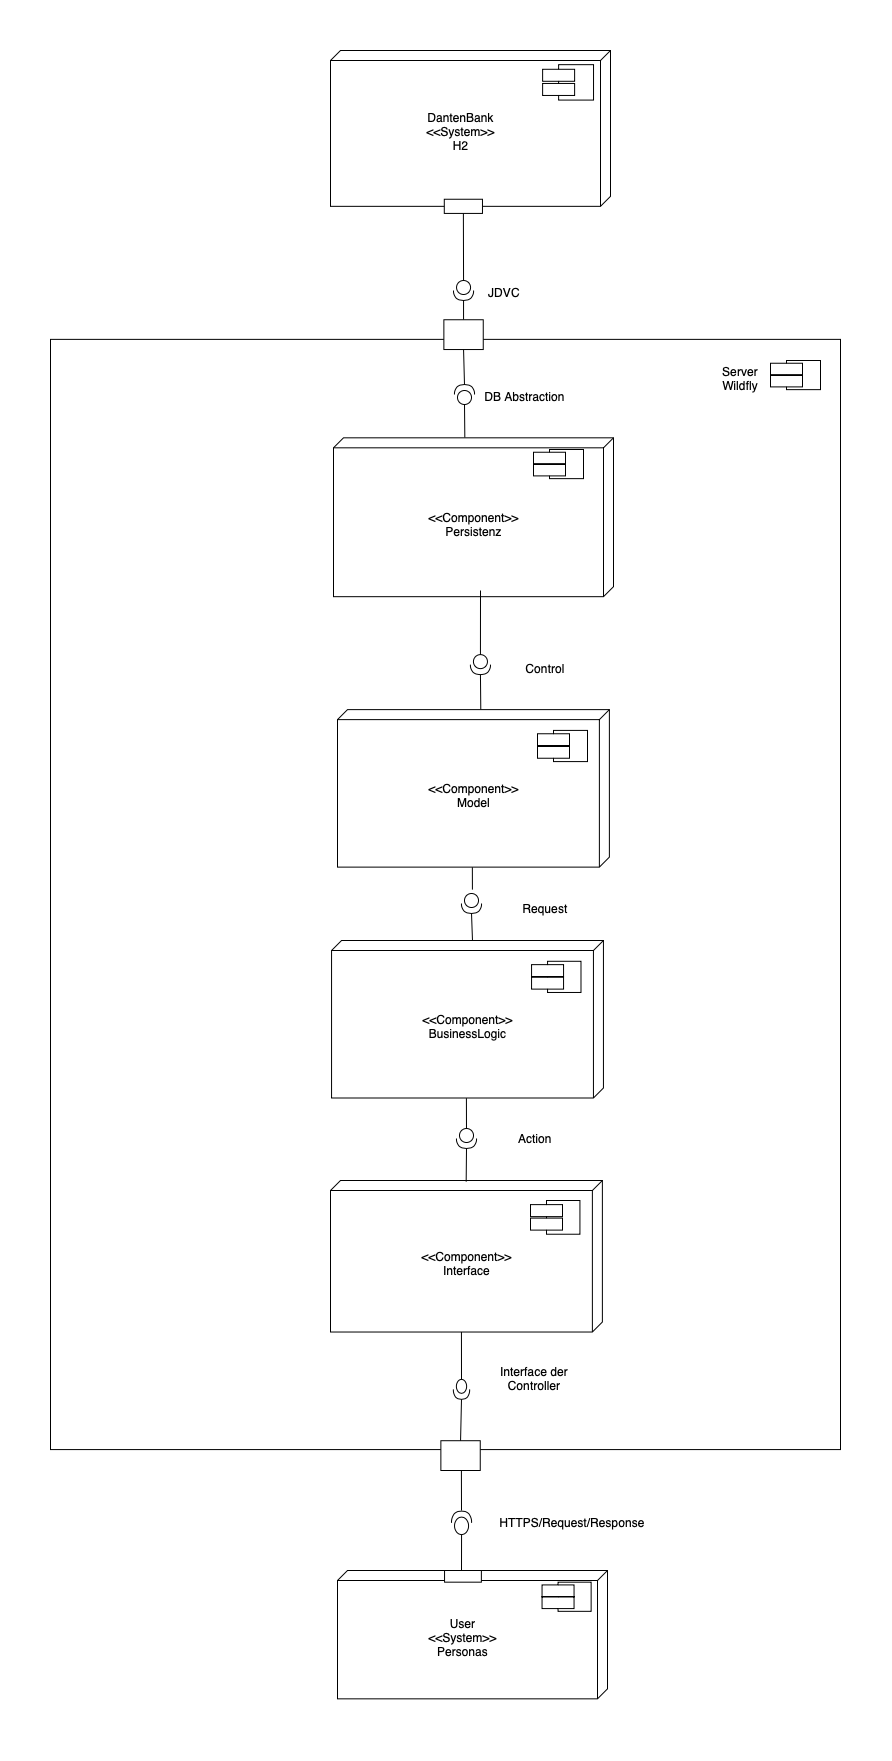
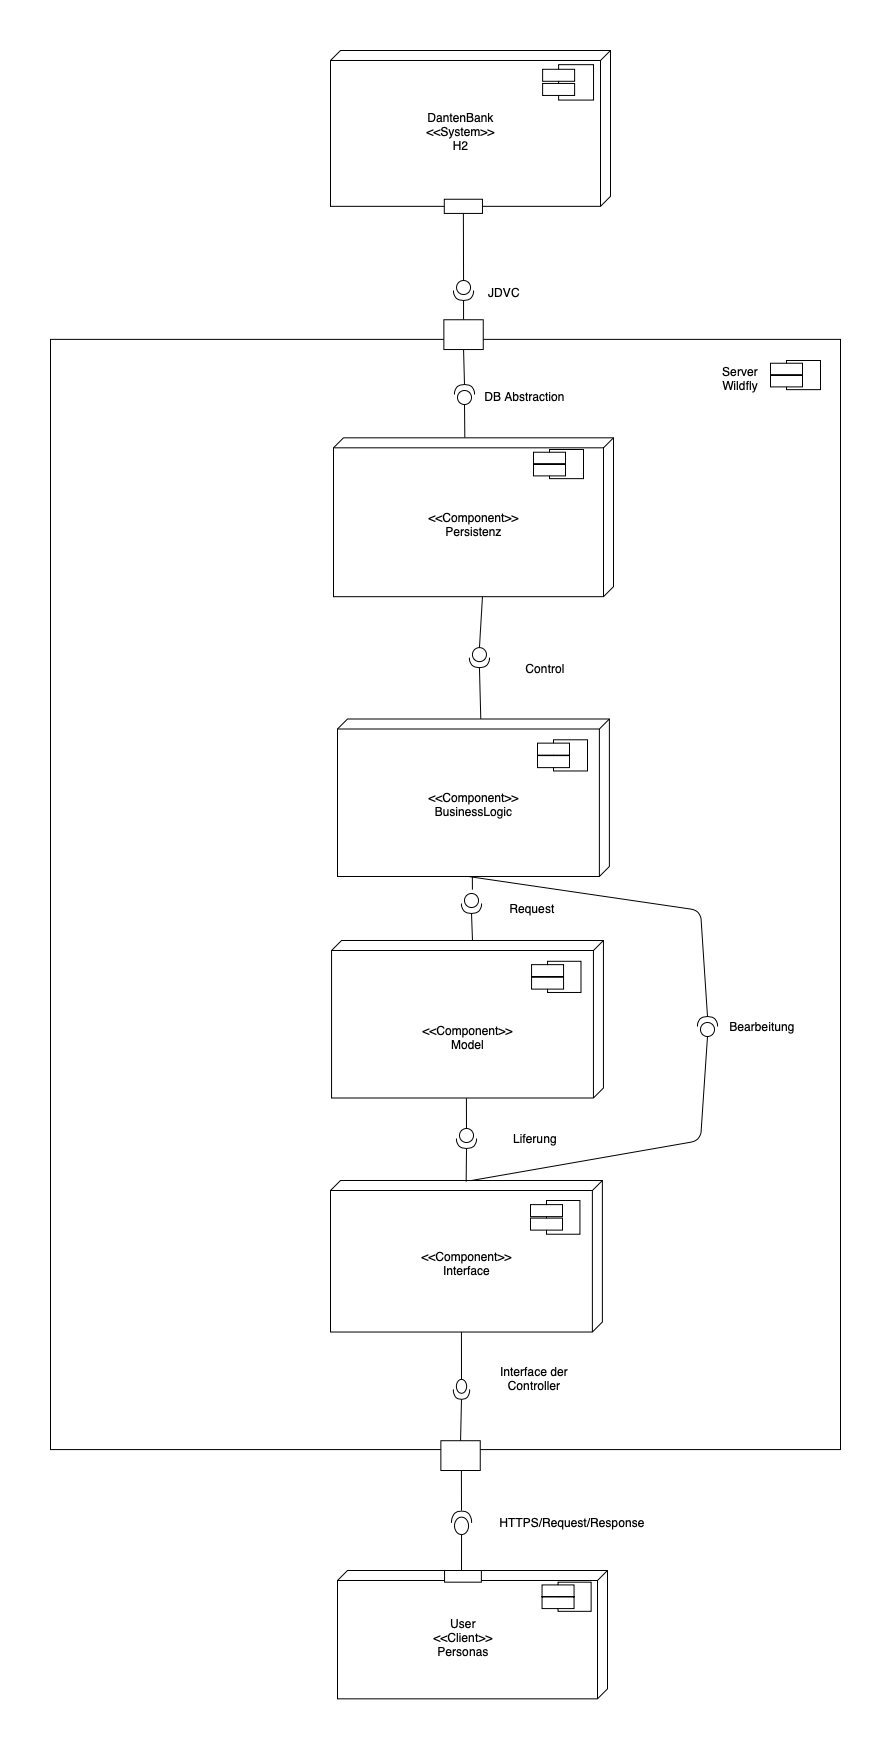
BusinessLogik

diff --git a/doc/Architekturbeschreibung.tex b/doc/Architekturbeschreibung.tex
@@ -889,7 +889,7 @@ Hier haben wir uns für Strategie 2 entschieden, weil durch die Modularisierung 
         \hline
         \textbf{Strategien} \\
          \textbf{Strategie 12.1: Lazy Loading: (ausgewählt)} Es wird immer nur ein kleiner Ausschnitt aus der Datenbank geladen (lazy loading). \\
-         \textbf{Strategie 12.2: Repräsentanten:} Es werden Repräsentanten von Probenkügelchenmenge ausgewählt und angezeigt, dazu noch eine Gesamtanzahl der gleichartigen Kügelchen. \\
+         \textbf{Strategie 12.2: Repräsentanten:} Es werden Repräsentanten von Probenkügelchenmenge ausgewählt und angezeigt, dazu noch eine Gesamtanzahl der gleichartigen Kügelchen. \\ \hline
     \end{tabular}
     \caption{Laden von Informationen Problemkarte}
     \label{tab:ProblemKarte12}
@@ -927,7 +927,7 @@ Hier haben wir uns für die erste Strategie entschieden, weil diese einfacher um
         \hline
         \textbf{Strategien} \\
          \textbf{Strategie 14.1: Von Hand:} Der Prozesskettenadministrator wählt die Stationen selber aus, wenn er die Prozesskette instanziiert. \\
-	\textbf{Strategie 14.2: Automatisch: (ausgewählt)} Das System analysiert, wie die für jeden Prozessschritt möglichen Stationen ausgelastet sind, und entscheidet, wo welche Schritte am effizientesten abgearbeitet werden. \\
+	\textbf{Strategie 14.2: Automatisch: (ausgewählt)} Das System analysiert, wie die für jeden Prozessschritt möglichen Stationen ausgelastet sind, und entscheidet, wo welche Schritte am effizientesten abgearbeitet werden. \\ \hline
     \end{tabular}
     \caption{Automatische Lastverteilung Problemkarte}
     \label{tab:ProblemKarte141}
@@ -939,46 +939,24 @@ Hier haben wir uns für die zweite Strategie entschieden, da sie den Ablauf im F
     \centering
     \begin{tabular}{|p{15cm}|}
     \hline
-          \textbf{Problem 15:} Prozessbearbeitung und Überwachung %Strategien?
+          \textbf{Problem 15:} Datenbearbeitung und Datenüberwachung %Strategien?
           \\ \hline
-          Der Prozesskettenadministrator kann einen Prozess mit unterschiedlichen Prozessschritten bauen. Dieser Prozess soll veränderbar sein und umtauschbar, um den Bedürfnissen der Benutzer gerecht zu werden.
+          Die Nutzer können mit Daten an der System , dieses Daten können mit unterschiedlichen vorausgesetzte  Verhalten bearbeiten werden und diese Daten müssen sichtbar, Speicherbar und Bearbeiter sein werden. Daher das System braucht eine geordnete Weise jede verlangete Funktionalität zu implementieren.
 
           \\ \hline
           \textbf{Einflussfaktoren: } \\
-          P1.10.2: Lagerübersicht \\
-	      P1.10.3: Proben-id-Nummern \\
+          T1.7: Multiple Users\\
+	      T1.5: Perzistence\\
           \hline
           \textbf{Strategien} \\ \hline
+            \textbf{Strategie 15.1: Kapselung des Datenhaltung:} Nutzung unterschiedlichen Komponenten, die unterschiedlichen abstrahiere Teilen der System trägen können, damit eine schneller und sicherer Implementierung  zu erreichen. \\
           \\ \hline
     \end{tabular}
     \caption{Prozessbearbeitung und Überwachung Problemkarte}
     \label{tab:ProblemKarte15}
 \end{table}
 
-\begin{table}[H]
-    \centering
-    \begin{tabular}{|p{15cm}|}
-    \hline
-          \textbf{Problem 15:} Data Persistenz 
-          \\ \hline
-          Es ist notwendig die Interaktion der Nutzer mit das System zu speichern, daher braucht das Software ein Hauptspeichern Ort. Wo alle die Daten und notwendig Anmerkungen gespeichert sind.
-          \\ \hline
-          \textbf{Einflussfaktoren: } \\
-          O1.3: Entwickler \\
-          O1.4: Fähigkeiten Entwickler \\
-          T1.1: Programmiersprache \\
-          T1.4: Oberfläche \\
-          T1.5: Persistenz \\
-          T1.6: Build System\\
-          \hline
-          \textbf{Strategien} \\ \hline
-          \textbf{Strategie 1:} Eine relationale Datenbank zu nutzen, die in das Software Wildfly schon verfügbar ist.
-          \textbf{Strategie 2:} XML Data Persistenz zu nutzen, um die Data  zu speichern. 
-          \\ \hline
-    \end{tabular}
-    \caption{Caption}
-    \label{tab:my_label}
-\end{table}
+
 %%%%%%%%%%%%%%%%%%%%%%%%%%%%%%%%%%%%
 %%%%%%%%%%%%%%%%%%%%%%%%%%%%%%%%%%%%
 %%%%%%%%%%%%%%%%%%%%%%%%%%%%%%%%%%%%
@@ -993,13 +971,19 @@ Hier haben wir uns für die zweite Strategie entschieden, da sie den Ablauf im F
 %ohne gleich in die Details von spezifischen Technologien abzugleiten.
 %Sie wird in den nachfolgenden Sichten konkretisiert und verfeinert. Die
 %konzeptionelle Sicht wird mit {UML}-Komponentendiagrammen visualisiert.}
-\textbf{Busin:}\\
-\textbf{JDVC:}\\
-\textbf{DB Abstraction:}\\
-\textbf{Control:}\\
-\textbf{Request:}\\
+in diese Konzeptionelle Ansicht betrachten die Interation zwichen die Komponenten des system. Diese Funtionalität des System ist verteilt. Hierbei ist es wichtig zu bemerken, dass der Client abstract ist. Die Komponenten an diese System sind: \\
+\textbf{H2:} Diese Teil liegt verlangte Dateibase H2, wo die Datei der Model gespeichert sind, an diese Stelle man die Datei bearbeiten, gespeichert und angerufenen zu werden. Diese Stelle ergibt sich aus die Vorgegebene Anforderungen des System. infolgedessen besteht aus keine Problem Karte.\\
+\textbf{Interface:} In diesem Teil liegt die User Interface, wo die User mit den System interagieren können. Diese Problem Karte beziehen sich aus Strategie 1.2, weil jede User hat ein unterschiedliche Oberfläche, mit wenn er mit des System interagieren kann. Außerdem ergibt sich aus die Strategie 15.1.
+Diese Komponente ist verwunden mit der BusinessLogik, um die Request und Data Bearbeitung zu erreichen.\\
+\textbf{Model:} Hier liegen die Daten der User, Prozesskette , Proben sowie Daten und Vormerkungen des System. Diese Komponente ist mit der Interface verwundet, weil die Daten das Interfaces gezeigt werden, sind das an der Model implementieren. Diese Komponente ergibt sich aus der \ref{tab:ProblemKarte15} \\
+\textbf{Persistenz:} Hier liegt die Verbindungen zwischen das System und Datei an der Dateibase, Diese Komponente ist verantwortlich und die Speicherung und Schreibung Funktionen an der Dateibase. diese Komponente  ist getroffen an der Anwendung der verlangte Technologie.  \\
+\textbf{BusinessLogik:} In diese Teil liegt die Funktionalität des System, diese Teil ist verantwortlich die Interaktion zwischen die Modelle und die Bearbeitung ihre Data in die Persistenz Komponente. Hier sind die das gewuchtetes Verhalten des System implementiert. diese Schnittstelle ergibt sich aus der  Strategie 15.1.  \\
+\textbf{JDVC:} Durch diese Anschlüsse  ist die Verwindung mit der Dateibase erreichbar. diese Anschlüsse erlaubt die Kommunikation zwischen die Sprache Java und die Dateibase.  \\
+\textbf{DB Abstraction:} Hier sind die Datei unsere Modell abstrahiert, um durch die Anschlüsse zu der Dateibase sie zugreifen zu können \\
+\textbf{Control:} durch diese Anschlüsse ist die Bearbeitung der Data an der Persistenz Teile und der Geschäftsprozess möglich  \\
+\textbf{Request:} durch diese Anschlüsse bekommt die Modelle Komponente ihre entsprechende Daten durch die Geschäftsprozess.\\
 \textbf{Action:}\\
-\textbf{Interface der Controller:}\\
+\textbf{Interface der Controller:} Hier ist  abstrahierte  Data  der Modelle Komponente  durch eine Interface geordnete und gezeigt.\\
 \begin{figure}[H]
   \includegraphics[width=310px]{UML/KonzeptioneleSicht.png}
   \caption{Die konzeptionelle Sicht}
@@ -1007,7 +991,7 @@ Hier haben wir uns für die zweite Strategie entschieden, da sie den Ablauf im F
 \end{figure}
 
 Figure \ref{fig:konzept} zeigt unsere konzeptionelle Sicht auf das System. 
-Hierbei ist es wichtig zu bemerken, dass der Client abstract ist.
+
 \section{Modulsicht}
 \label{sec:modulsicht}
 
